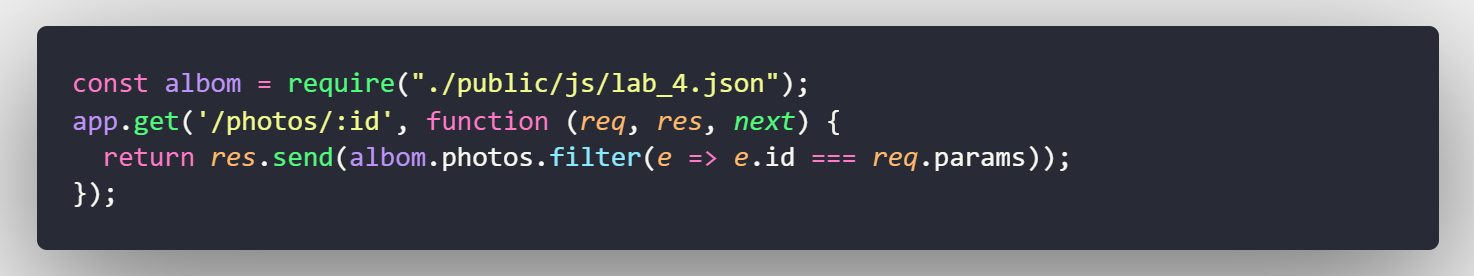
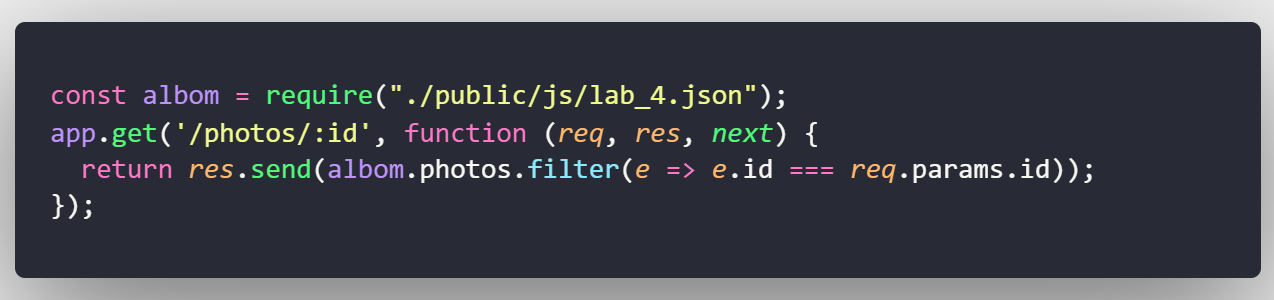
make it better

Changed region(s): [[0.0, 0.058, 1.0, 0.9275], [0.0612, 0.5217, 0.8571, 0.6087]]

diff --git a/index.js b/index.js
@@ -11,7 +11,7 @@ app.use(express.static(__dirname + '/public'));
 
 const albom = require("./public/js/lab_4.json");
 app.get('/photos/:id', function (req, res, next) {
-  return res.send(albom.photos.filter(e => e.id === req.params));
+  return res.send(albom.photos.filter(e => e.id === req.params.id));
 });
 
 app.get('/', (req, res) => {

diff --git a/public/js/lab_4.js b/public/js/lab_4.js
@@ -1,7 +1,6 @@
 function fetchData(param) {
   axios.get(`https://marchenko-sonya.herokuapp.com/photos/${param}`)
   .then(function (response) {
-    console.log(response.data[0].url);
     document.querySelector("#photo img").src = response.data[0].url;
   })
   .catch(function (error) {
